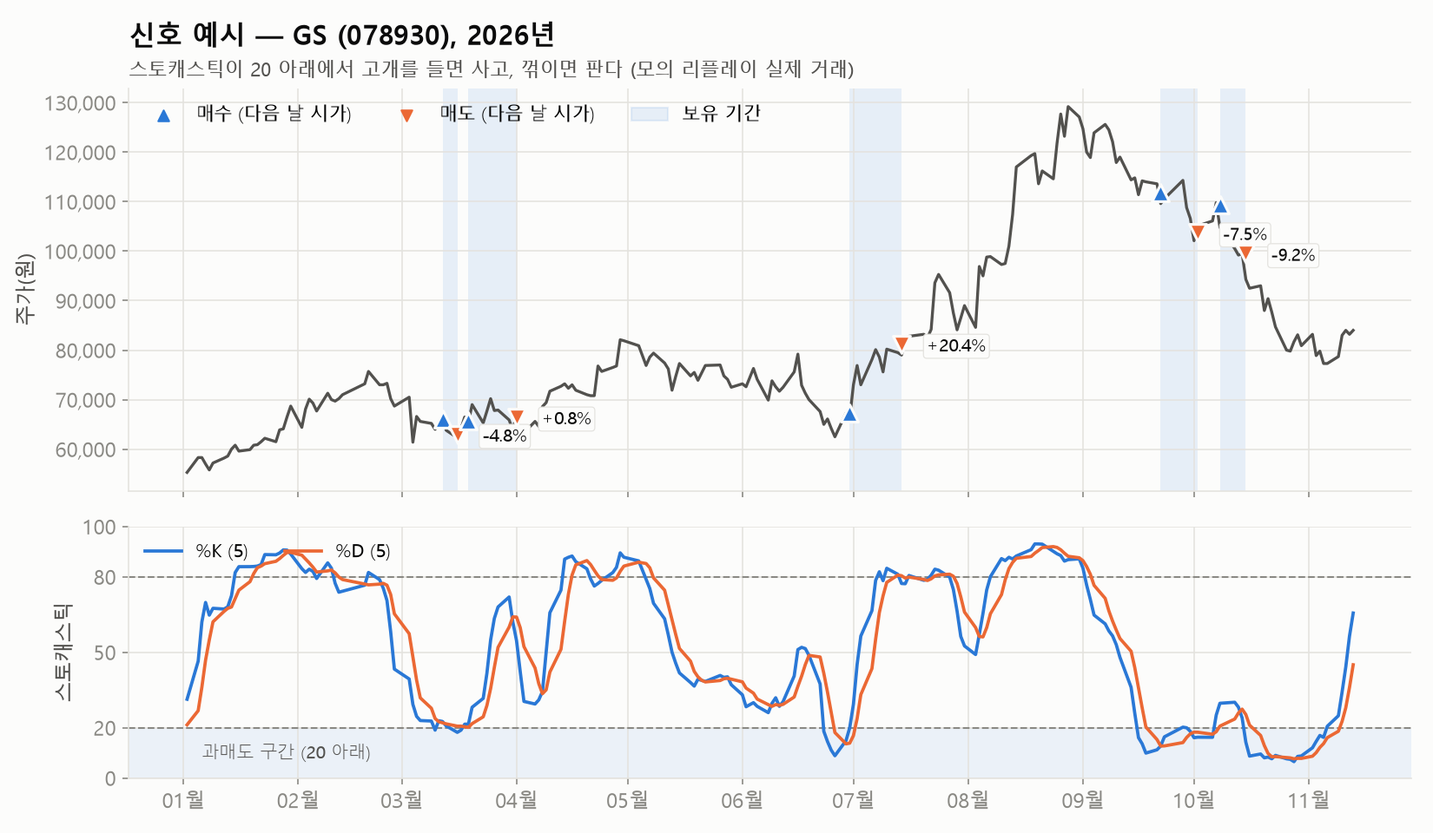
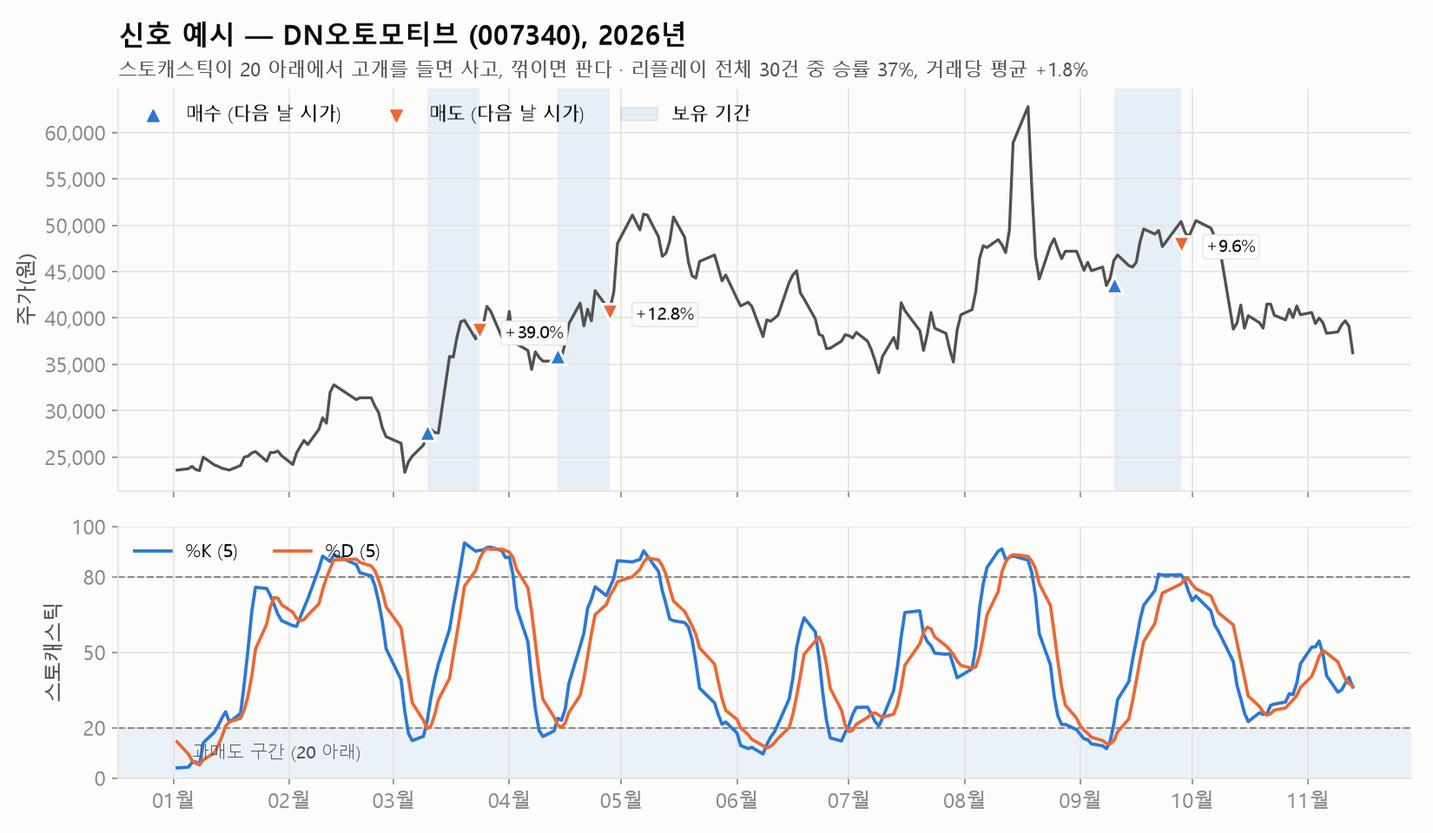
v3: 주봉 스토캐스틱 필터 채택 (PF 1.11→1.23, MDD -2.3→-1.0%), 그림·문서 갱신
- backtest_hyung3.py: 매도 늦추기·주봉 필터·매수 금액 비교
- run_daily.py: 주봉 스토캐스틱 상승 중일 때만 신규 매수
- README·프로젝트_설명·그림·데모 대시보드 갱신 (2026 리플레이 +2.1%)

diff --git a/docs/index.html b/docs/index.html
@@ -21,27 +21,27 @@ th{color:var(--ink2);font-weight:600;font-size:12px}ul.hl{list-style:none;paddin
 #tip{position:fixed;pointer-events:none;background:var(--surface);border:1px solid var(--line);border-radius:6px;padding:6px 8px;font-size:12px;display:none;box-shadow:0 2px 8px #0002}
 </style></head><body><main>
 <h1>주식 자동매매 — 모의 장부 <span style='font-size:13px;font-weight:600;color:#eb6834'>데모 · 2026년 리플레이</span></h1>
-<p class="sub">형님 스토캐스틱 v2 · 일봉 · 기준일 2026-11-13 · 마지막 실행 2026-11-13T15:33:21</p>
+<p class="sub">형님 스토캐스틱 v2 · 일봉 · 기준일 2026-11-13 · 마지막 실행 2026-11-13T16:06:52</p>
 <div class="tiles">
-<div class="tile"><div class="k">평가자산</div><div class="v">9,886,143원</div></div>
-<div class="tile"><div class="k">누적 수익률</div><div class="v">-1.14%</div></div>
-<div class="tile"><div class="k">같은 기간 KODEX 200</div><div class="v">+34.20%</div></div>
+<div class="tile"><div class="k">평가자산</div><div class="v">10,205,045원</div></div>
+<div class="tile"><div class="k">누적 수익률</div><div class="v">+2.05%</div></div>
+<div class="tile"><div class="k">같은 기간 KODEX 200</div><div class="v">+33.83%</div></div>
 <div class="tile"><div class="k">보유 / 최대</div><div class="v">0 / 10</div></div>
 <div class="tile"><div class="k">시장 필터</div><div class="v">OFF · 신규매수 중지</div></div>
 </div>
-<h2>점검</h2><div class="card"><ul class="hl"><li class="st good"><span class="ic" aria-hidden="true">✓</span><b>정상</b> 데이터 최신성 — 기준일 2026-11-13 (영업일 0일 전)</li><li class="st good"><span class="ic" aria-hidden="true">✓</span><b>정상</b> 미체결 대기주문 — 0건</li><li class="st good"><span class="ic" aria-hidden="true">✓</span><b>정상</b> 현금 — 9,886,143원</li><li class="st warning"><span class="ic" aria-hidden="true">!</span><b>주의</b> 종목 데이터 오류 — 1종목</li><li class="st warning"><span class="ic" aria-hidden="true">!</span><b>주의</b> 실전 수익팩터(PF) — 0.83 (백테스트 기대 1.11)</li></ul></div>
+<h2>점검</h2><div class="card"><ul class="hl"><li class="st good"><span class="ic" aria-hidden="true">✓</span><b>정상</b> 데이터 최신성 — 기준일 2026-11-13 (영업일 0일 전)</li><li class="st good"><span class="ic" aria-hidden="true">✓</span><b>정상</b> 미체결 대기주문 — 0건</li><li class="st good"><span class="ic" aria-hidden="true">✓</span><b>정상</b> 현금 — 10,205,045원</li><li class="st warning"><span class="ic" aria-hidden="true">!</span><b>주의</b> 종목 데이터 오류 — 1종목</li><li class="st good"><span class="ic" aria-hidden="true">✓</span><b>정상</b> 실전 수익팩터(PF) — 1.48 (백테스트 기대 1.11)</li></ul></div>
 <h2>계좌 vs KODEX 200 (시작 = 100)</h2>
 <div class="card"><div class="legend"><span><i class="sw" style="background:var(--s1)"></i>모의 계좌</span>
 <span><i class="sw" style="background:var(--s2)"></i>KODEX 200</span></div><div id="chart"></div></div>
 <h2>보유 종목</h2><p class="muted">없음</p>
 <h2>내일 시가 주문(대기)</h2><p class="muted">없음</p>
-<h2>오늘 신호</h2><div class="tw"><table><thead><tr><th>종목</th><th>코드</th><th>종가</th><th>%K</th><th>%D</th><th>신호</th></tr></thead><tbody><tr><td>DB증권</td><td>016610</td><td>8,700</td><td>17.5</td><td>24.8</td><td>매수신호(시장필터 OFF)</td></tr><tr><td>ESR켄달스퀘어리츠</td><td>365550</td><td>2,780</td><td>17.3</td><td>16.5</td><td>매수신호(시장필터 OFF)</td></tr></tbody></table></div>
-<h2>실전 vs 백테스트 기대치</h2><div class="tw"><table><thead><tr><th>지표</th><th>백테스트</th><th>모의 실적</th></tr></thead><tbody><tr><td>승률%</td><td>37.5</td><td>40.2</td></tr><tr><td>거래당 평균%</td><td>0.34</td><td>-0.81</td></tr><tr><td>PF</td><td>1.11</td><td>0.83</td></tr><tr><td>평균 보유일</td><td>8.0</td><td>7.8</td></tr></tbody></table></div>
-<h2>최근 청산 (최대 30건)</h2><div class="tw"><table><thead><tr><th>종목</th><th>코드</th><th>진입</th><th>청산</th><th>매수횟수</th><th>수익률</th></tr></thead><tbody><tr><td>GS</td><td>078930</td><td>2026-10-08</td><td>2026-10-15</td><td>1회</td><td>-9.18%</td></tr><tr><td>DSR제강</td><td>069730</td><td>2026-09-18</td><td>2026-10-06</td><td>1회</td><td>+1.83%</td></tr><tr><td>DI동일</td><td>001530</td><td>2026-10-01</td><td>2026-10-06</td><td>1회</td><td>-1.02%</td></tr><tr><td>GS</td><td>078930</td><td>2026-09-22</td><td>2026-10-02</td><td>1회</td><td>-7.46%</td></tr><tr><td>DN오토모티브</td><td>007340</td><td>2026-09-10</td><td>2026-09-28</td><td>1회</td><td>+9.61%</td></tr><tr><td>GS건설</td><td>006360</td><td>2026-08-05</td><td>2026-08-19</td><td>1회</td><td>+13.31%</td></tr><tr><td>HD현대에너지솔루션</td><td>322000</td><td>2026-08-05</td><td>2026-08-12</td><td>1회</td><td>-8.99%</td></tr><tr><td>HD현대에너지솔루션</td><td>322000</td><td>2026-07-14</td><td>2026-07-30</td><td>1회</td><td>-22.63%</td></tr><tr><td>DB하이텍</td><td>000990</td><td>2026-07-24</td><td>2026-07-30</td><td>1회</td><td>-31.58%</td></tr><tr><td>HD건설기계</td><td>267270</td><td>2026-07-01</td><td>2026-07-21</td><td>1회</td><td>-7.36%</td></tr><tr><td>DL이앤씨</td><td>375500</td><td>2026-07-10</td><td>2026-07-21</td><td>1회</td><td>-7.48%</td></tr><tr><td>DB하이텍</td><td>000990</td><td>2026-07-10</td><td>2026-07-21</td><td>1회</td><td>-15.05%</td></tr><tr><td>GS건설</td><td>006360</td><td>2026-07-01</td><td>2026-07-15</td><td>1회</td><td>+8.04%</td></tr><tr><td>GS</td><td>078930</td><td>2026-06-30</td><td>2026-07-14</td><td>1회</td><td>+20.38%</td></tr><tr><td>GS리테일</td><td>007070</td><td>2026-06-30</td><td>2026-07-10</td><td>1회</td><td>+11.12%</td></tr><tr><td>BNK금융지주</td><td>138930</td><td>2026-07-01</td><td>2026-07-10</td><td>1회</td><td>-0.17%</td></tr><tr><td>DL이앤씨</td><td>375500</td><td>2026-07-01</td><td>2026-07-09</td><td>1회</td><td>-9.38%</td></tr><tr><td>DN오토모티브</td><td>007340</td><td>2026-07-01</td><td>2026-07-08</td><td>1회</td><td>-8.61%</td></tr><tr><td>HD현대에너지솔루션</td><td>322000</td><td>2026-06-30</td><td>2026-07-07</td><td>1회</td><td>-10.97%</td></tr><tr><td>DB하이텍</td><td>000990</td><td>2026-06-23</td><td>2026-06-30</td><td>1회</td><td>-16.53%</td></tr><tr><td>HD현대에너지솔루션</td><td>322000</td><td>2026-05-29</td><td>2026-06-23</td><td>1회</td><td>-26.86%</td></tr><tr><td>GS글로벌</td><td>001250</td><td>2026-06-10</td><td>2026-06-23</td><td>1회</td><td>-8.92%</td></tr><tr><td>DSR</td><td>155660</td><td>2026-06-10</td><td>2026-06-23</td><td>1회</td><td>+0.38%</td></tr><tr><td>DN오토모티브</td><td>007340</td><td>2026-06-10</td><td>2026-06-23</td><td>1회</td><td>+1.04%</td></tr><tr><td>DL이앤씨</td><td>375500</td><td>2026-06-10</td><td>2026-06-23</td><td>1회</td><td>+0.50%</td></tr><tr><td>DL</td><td>000210</td><td>2026-06-10</td><td>2026-06-23</td><td>1회</td><td>+1.07%</td></tr><tr><td>GS리테일</td><td>007070</td><td>2026-06-10</td><td>2026-06-22</td><td>1회</td><td>-0.44%</td></tr><tr><td>DB하이텍</td><td>000990</td><td>2026-06-19</td><td>2026-06-22</td><td>1회</td><td>-2.59%</td></tr><tr><td>DB</td><td>012030</td><td>2026-06-11</td><td>2026-06-22</td><td>1회</td><td>-2.43%</td></tr><tr><td>BGF리테일</td><td>282330</td><td>2026-06-04</td><td>2026-06-18</td><td>1회</td><td>-10.52%</td></tr></tbody></table></div>
+<h2>오늘 신호</h2><div class="tw"><table><thead><tr><th>종목</th><th>코드</th><th>종가</th><th>%K</th><th>%D</th><th>신호</th></tr></thead><tbody><tr><td>DB증권</td><td>016610</td><td>8,750</td><td>18.1</td><td>24.9</td><td>매수신호(시장필터 OFF)</td></tr></tbody></table></div>
+<h2>실전 vs 백테스트 기대치</h2><div class="tw"><table><thead><tr><th>지표</th><th>백테스트</th><th>모의 실적</th></tr></thead><tbody><tr><td>승률%</td><td>37.5</td><td>36.7</td></tr><tr><td>거래당 평균%</td><td>0.34</td><td>1.8</td></tr><tr><td>PF</td><td>1.11</td><td>1.48</td></tr><tr><td>평균 보유일</td><td>8.0</td><td>7.2</td></tr></tbody></table></div>
+<h2>최근 청산 (최대 30건)</h2><div class="tw"><table><thead><tr><th>종목</th><th>코드</th><th>진입</th><th>청산</th><th>매수횟수</th><th>수익률</th></tr></thead><tbody><tr><td>DI동일</td><td>001530</td><td>2026-10-01</td><td>2026-10-06</td><td>1회</td><td>-1.02%</td></tr><tr><td>GS</td><td>078930</td><td>2026-09-22</td><td>2026-10-02</td><td>1회</td><td>-7.46%</td></tr><tr><td>DN오토모티브</td><td>007340</td><td>2026-09-10</td><td>2026-09-28</td><td>1회</td><td>+9.61%</td></tr><tr><td>GS건설</td><td>006360</td><td>2026-08-05</td><td>2026-08-19</td><td>1회</td><td>+13.31%</td></tr><tr><td>BNK금융지주</td><td>138930</td><td>2026-07-01</td><td>2026-07-10</td><td>1회</td><td>-0.17%</td></tr><tr><td>DB</td><td>012030</td><td>2026-06-11</td><td>2026-06-22</td><td>1회</td><td>-2.43%</td></tr><tr><td>DYP</td><td>092780</td><td>2026-06-16</td><td>2026-06-17</td><td>1회</td><td>+4.25%</td></tr><tr><td>HD현대</td><td>267250</td><td>2026-05-26</td><td>2026-06-04</td><td>1회</td><td>-4.39%</td></tr><tr><td>HD현대마린솔루션</td><td>443060</td><td>2026-05-22</td><td>2026-06-02</td><td>1회</td><td>-6.41%</td></tr><tr><td>GS건설</td><td>006360</td><td>2026-05-21</td><td>2026-06-02</td><td>1회</td><td>-8.21%</td></tr><tr><td>DB증권</td><td>016610</td><td>2026-05-26</td><td>2026-06-02</td><td>1회</td><td>-10.81%</td></tr><tr><td>E1</td><td>017940</td><td>2026-05-27</td><td>2026-06-01</td><td>1회</td><td>-5.64%</td></tr><tr><td>DL이앤씨</td><td>375500</td><td>2026-05-22</td><td>2026-06-01</td><td>1회</td><td>-15.07%</td></tr><tr><td>CJ제일제당</td><td>097950</td><td>2026-05-15</td><td>2026-05-22</td><td>1회</td><td>-7.62%</td></tr><tr><td>DN오토모티브</td><td>007340</td><td>2026-04-14</td><td>2026-04-28</td><td>1회</td><td>+12.83%</td></tr><tr><td>BGF리테일</td><td>282330</td><td>2026-03-11</td><td>2026-04-03</td><td>1회</td><td>+11.24%</td></tr><tr><td>HD현대</td><td>267250</td><td>2026-03-26</td><td>2026-04-02</td><td>1회</td><td>-5.85%</td></tr><tr><td>BNK금융지주</td><td>138930</td><td>2026-03-12</td><td>2026-04-01</td><td>1회</td><td>-1.23%</td></tr><tr><td>E1</td><td>017940</td><td>2026-03-12</td><td>2026-03-30</td><td>1회</td><td>+2.00%</td></tr><tr><td>BYC</td><td>001460</td><td>2026-03-20</td><td>2026-03-30</td><td>1회</td><td>+9.99%</td></tr><tr><td>DL</td><td>000210</td><td>2026-03-13</td><td>2026-03-27</td><td>1회</td><td>+33.78%</td></tr><tr><td>GS건설</td><td>006360</td><td>2026-03-12</td><td>2026-03-26</td><td>1회</td><td>+28.14%</td></tr><tr><td>DN오토모티브</td><td>007340</td><td>2026-03-10</td><td>2026-03-24</td><td>1회</td><td>+39.03%</td></tr><tr><td>BYC</td><td>001460</td><td>2026-03-12</td><td>2026-03-19</td><td>1회</td><td>-1.64%</td></tr><tr><td>DYP</td><td>092780</td><td>2026-02-26</td><td>2026-03-03</td><td>1회</td><td>-10.50%</td></tr><tr><td>HJ중공업</td><td>097230</td><td>2026-02-19</td><td>2026-02-27</td><td>1회</td><td>+2.40%</td></tr><tr><td>DYP</td><td>092780</td><td>2026-02-12</td><td>2026-02-23</td><td>1회</td><td>-4.02%</td></tr><tr><td>HD현대마린엔진</td><td>071970</td><td>2026-02-05</td><td>2026-02-06</td><td>1회</td><td>-9.83%</td></tr><tr><td>HD현대에너지솔루션</td><td>322000</td><td>2026-01-15</td><td>2026-01-22</td><td>1회</td><td>-5.21%</td></tr><tr><td>DB</td><td>012030</td><td>2026-01-05</td><td>2026-01-12</td><td>1회</td><td>-5.15%</td></tr></tbody></table></div>
 <p class="muted" style="margin-top:28px">모의 장부(실제 주문 아님). 신호는 종가 판단, 다음 날 시가 체결 가정. 투자 권유 아님.</p>
 </main><div id="tip"></div>
 <script>
-const D=[{"d": "2026-01-02", "a": 100.0, "b": 100.0}, {"d": "2026-01-05", "a": 100.06, "b": 103.8}, {"d": "2026-01-06", "a": 100.2, "b": 105.66}, {"d": "2026-01-07", "a": 100.1, "b": 106.48}, {"d": "2026-01-08", "a": 99.97, "b": 106.32}, {"d": "2026-01-09", "a": 100.0, "b": 107.21}, {"d": "2026-01-12", "a": 100.36, "b": 107.9}, {"d": "2026-01-13", "a": 100.48, "b": 109.27}, {"d": "2026-01-14", "a": 100.63, "b": 109.86}, {"d": "2026-01-15", "a": 100.6, "b": 111.74}, {"d": "2026-01-16", "a": 100.54, "b": 112.92}, {"d": "2026-01-19", "a": 100.4, "b": 114.55}, {"d": "2026-01-20", "a": 100.48, "b": 113.61}, {"d": "2026-01-21", "a": 100.35, "b": 114.51}, {"d": "2026-01-22", "a": 100.43, "b": 115.75}, {"d": "2026-01-23", "a": 100.42, "b": 116.54}, {"d": "2026-01-26", "a": 100.41, "b": 115.39}, {"d": "2026-01-27", "a": 100.41, "b": 119.33}, {"d": "2026-01-28", "a": 100.41, "b": 121.57}, {"d": "2026-01-29", "a": 100.41, "b": 123.07}, {"d": "2026-01-30", "a": 100.41, "b": 123.5}, {"d": "2026-02-02", "a": 100.41, "b": 116.15}, {"d": "2026-02-03", "a": 100.41, "b": 125.08}, {"d": "2026-02-04", "a": 100.41, "b": 126.83}, {"d": "2026-02-05", "a": 100.25, "b": 121.43}, {"d": "2026-02-06", "a": 100.15, "b": 120.13}, {"d": "2026-02-09", "a": 100.15, "b": 125.16}, {"d": "2026-02-10", "a": 100.15, "b": 125.31}, {"d": "2026-02-11", "a": 100.15, "b": 126.39}, {"d": "2026-02-12", "a": 100.25, "b": 130.96}, {"d": "2026-02-13", "a": 99.98, "b": 130.78}, {"d": "2026-02-19", "a": 100.12, "b": 134.82}, {"d": "2026-02-20", "a": 100.3, "b": 137.87}, {"d": "2026-02-23", "a": 100.13, "b": 138.9}, {"d": "2026-02-24", "a": 100.05, "b": 142.32}, {"d": "2026-02-25", "a": 100.16, "b": 145.21}, {"d": "2026-02-26", "a": 99.83, "b": 151.81}, {"d": "2026-02-27", "a": 99.87, "b": 150.37}, {"d": "2026-03-03", "a": 99.66, "b": 138.52}, {"d": "2026-03-04", "a": 99.27, "b": 121.26}, {"d": "2026-03-05", "a": 99.49, "b": 133.51}, {"d": "2026-03-06", "a": 99.49, "b": 133.49}, {"d": "2026-03-09", "a": 99.63, "b": 124.98}, {"d": "2026-03-10", "a": 99.61, "b": 132.44}, {"d": "2026-03-11", "a": 99.69, "b": 133.92}, {"d": "2026-03-12", "a": 99.5, "b": 132.92}, {"d": "2026-03-13", "a": 99.26, "b": 130.27}, {"d": "2026-03-16", "a": 100.22, "b": 132.58}, {"d": "2026-03-17", "a": 100.34, "b": 135.21}, {"d": "2026-03-18", "a": 101.37, "b": 142.78}, {"d": "2026-03-19", "a": 101.44, "b": 138.59}, {"d": "2026-03-20", "a": 103.59, "b": 138.45}, {"d": "2026-03-23", "a": 101.91, "b": 129.44}, {"d": "2026-03-24", "a": 101.8, "b": 133.41}, {"d": "2026-03-25", "a": 102.04, "b": 135.01}, {"d": "2026-03-26", "a": 101.92, "b": 130.36}, {"d": "2026-03-27", "a": 102.28, "b": 129.77}, {"d": "2026-03-30", "a": 102.04, "b": 125.7}, {"d": "2026-03-31", "a": 101.77, "b": 120.51}, {"d": "2026-04-01", "a": 102.08, "b": 131.27}, {"d": "2026-04-02", "a": 102.06, "b": 124.92}, {"d": "2026-04-03", "a": 102.08, "b": 128.73}, {"d": "2026-04-06", "a": 102.07, "b": 130.6}, {"d": "2026-04-07", "a": 101.99, "b": 132.23}, {"d": "2026-04-08", "a": 102.37, "b": 142.19}, {"d": "2026-04-09", "a": 101.95, "b": 139.39}, {"d": "2026-04-10", "a": 102.52, "b": 141.64}, {"d": "2026-04-13", "a": 102.19, "b": 140.4}, {"d": "2026-04-14", "a": 102.82, "b": 144.47}, {"d": "2026-04-15", "a": 102.83, "b": 148.04}, {"d": "2026-04-16", "a": 103.47, "b": 151.31}, {"d": "2026-04-17", "a": 103.79, "b": 150.26}, {"d": "2026-04-20", "a": 104.53, "b": 150.97}, {"d": "2026-04-21", "a": 104.25, "b": 154.84}, {"d": "2026-04-22", "a": 104.08, "b": 155.45}, {"d": "2026-04-23", "a": 104.21, "b": 157.13}, {"d": "2026-04-24", "a": 104.69, "b": 156.57}, {"d": "2026-04-27", "a": 104.56, "b": 160.15}, {"d": "2026-04-28", "a": 104.48, "b": 160.88}, {"d": "2026-04-29", "a": 104.81, "b": 162.15}, {"d": "2026-04-30", "a": 104.9, "b": 160.32}, {"d": "2026-05-04", "a": 104.89, "b": 168.97}, {"d": "2026-05-06", "a": 104.87, "b": 181.77}, {"d": "2026-05-07", "a": 104.87, "b": 185.54}, {"d": "2026-05-08", "a": 104.87, "b": 185.84}, {"d": "2026-05-11", "a": 104.87, "b": 195.46}, {"d": "2026-05-12", "a": 104.87, "b": 191.12}, {"d": "2026-05-13", "a": 104.87, "b": 196.83}, {"d": "2026-05-14", "a": 104.87, "b": 200.36}, {"d": "2026-05-15", "a": 104.69, "b": 188.07}, {"d": "2026-05-18", "a": 104.72, "b": 189.1}, {"d": "2026-05-19", "a": 104.55, "b": 183.44}, {"d": "2026-05-20", "a": 104.1, "b": 181.88}, {"d": "2026-05-21", "a": 104.35, "b": 197.48}, {"d": "2026-05-22", "a": 104.73, "b": 197.94}, {"d": "2026-05-26", "a": 104.24, "b": 203.41}, {"d": "2026-05-27", "a": 103.12, "b": 209.58}, {"d": "2026-05-28", "a": 102.8, "b": 208.6}, {"d": "2026-05-29", "a": 102.64, "b": 216.34}, {"d": "2026-06-01", "a": 102.09, "b": 226.9}, {"d": "2026-06-02", "a": 101.72, "b": 227.19}, {"d": "2026-06-04", "a": 101.77, "b": 222.62}, {"d": "2026-06-05", "a": 101.64, "b": 210.27}, {"d": "2026-06-08", "a": 101.28, "b": 191.86}, {"d": "2026-06-09", "a": 101.35, "b": 208.82}, {"d": "2026-06-10", "a": 101.52, "b": 198.66}, {"d": "2026-06-11", "a": 102.0, "b": 198.74}, {"d": "2026-06-12", "a": 102.78, "b": 207.44}, {"d": "2026-06-15", "a": 103.89, "b": 218.71}, {"d": "2026-06-16", "a": 104.76, "b": 223.94}, {"d": "2026-06-17", "a": 104.04, "b": 227.96}, {"d": "2026-06-18", "a": 102.87, "b": 235.81}, {"d": "2026-06-19", "a": 102.05, "b": 235.75}, {"d": "2026-06-22", "a": 101.57, "b": 238.07}, {"d": "2026-06-23", "a": 100.94, "b": 213.14}, {"d": "2026-06-24", "a": 100.96, "b": 221.68}, {"d": "2026-06-25", "a": 101.01, "b": 234.02}, {"d": "2026-06-26", "a": 101.02, "b": 220.46}, {"d": "2026-06-29", "a": 100.87, "b": 218.91}, {"d": "2026-06-30", "a": 100.99, "b": 222.38}, {"d": "2026-07-01", "a": 101.87, "b": 215.87}, {"d": "2026-07-02", "a": 101.74, "b": 198.23}, {"d": "2026-07-03", "a": 101.41, "b": 210.23}, {"d": "2026-07-06", "a": 101.78, "b": 208.81}, {"d": "2026-07-07", "a": 101.86, "b": 198.52}, {"d": "2026-07-08", "a": 100.98, "b": 187.54}, {"d": "2026-07-09", "a": 100.72, "b": 188.87}, {"d": "2026-07-10", "a": 101.68, "b": 193.54}, {"d": "2026-07-13", "a": 100.92, "b": 174.62}, {"d": "2026-07-14", "a": 100.48, "b": 176.07}, {"d": "2026-07-15", "a": 101.21, "b": 187.33}, {"d": "2026-07-16", "a": 100.68, "b": 174.91}, {"d": "2026-07-20", "a": 100.38, "b": 167.04}, {"d": "2026-07-21", "a": 100.53, "b": 173.53}, {"d": "2026-07-22", "a": 100.58, "b": 173.81}, {"d": "2026-07-23", "a": 101.36, "b": 181.7}, {"d": "2026-07-24", "a": 101.01, "b": 170.69}, {"d": "2026-07-27", "a": 100.39, "b": 172.88}, {"d": "2026-07-28", "a": 99.51, "b": 153.53}, {"d": "2026-07-29", "a": 98.97, "b": 143.79}, {"d": "2026-07-30", "a": 98.82, "b": 140.91}, {"d": "2026-07-31", "a": 98.82, "b": 174.98}, {"d": "2026-08-03", "a": 98.82, "b": 159.36}, {"d": "2026-08-04", "a": 98.82, "b": 161.33}, {"d": "2026-08-05", "a": 99.14, "b": 167.71}, {"d": "2026-08-06", "a": 99.26, "b": 159.03}, {"d": "2026-08-07", "a": 99.03, "b": 157.72}, {"d": "2026-08-10", "a": 99.24, "b": 158.01}, {"d": "2026-08-11", "a": 99.19, "b": 159.61}, {"d": "2026-08-12", "a": 99.25, "b": 166.02}, {"d": "2026-08-13", "a": 99.31, "b": 172.48}, {"d": "2026-08-14", "a": 99.27, "b": 176.97}, {"d": "2026-08-18", "a": 99.14, "b": 174.54}, {"d": "2026-08-19", "a": 99.01, "b": 163.62}, {"d": "2026-08-20", "a": 99.01, "b": 173.96}, {"d": "2026-08-21", "a": 99.01, "b": 176.84}, {"d": "2026-08-24", "a": 99.01, "b": 170.43}, {"d": "2026-08-25", "a": 99.01, "b": 171.72}, {"d": "2026-08-26", "a": 99.01, "b": 173.19}, {"d": "2026-08-27", "a": 99.01, "b": 175.48}, {"d": "2026-08-28", "a": 99.01, "b": 172.34}, {"d": "2026-08-31", "a": 99.01, "b": 173.04}, {"d": "2026-09-01", "a": 99.01, "b": 173.47}, {"d": "2026-09-02", "a": 99.01, "b": 166.42}, {"d": "2026-09-03", "a": 99.01, "b": 166.6}, {"d": "2026-09-04", "a": 99.01, "b": 169.99}, {"d": "2026-09-07", "a": 99.01, "b": 178.19}, {"d": "2026-09-08", "a": 99.01, "b": 177.41}, {"d": "2026-09-09", "a": 99.01, "b": 180.25}, {"d": "2026-09-10", "a": 99.19, "b": 179.87}, {"d": "2026-09-11", "a": 99.23, "b": 176.07}, {"d": "2026-09-14", "a": 99.15, "b": 169.49}, {"d": "2026-09-15", "a": 99.14, "b": 167.67}, {"d": "2026-09-16", "a": 99.18, "b": 171.03}, {"d": "2026-09-17", "a": 99.33, "b": 170.89}, {"d": "2026-09-18", "a": 99.45, "b": 175.72}, {"d": "2026-09-21", "a": 99.43, "b": 179.61}, {"d": "2026-09-22", "a": 99.41, "b": 179.9}, {"d": "2026-09-23", "a": 99.31, "b": 181.93}, {"d": "2026-09-28", "a": 99.48, "b": 176.07}, {"d": "2026-09-29", "a": 99.31, "b": 176.86}, {"d": "2026-09-30", "a": 99.27, "b": 176.14}, {"d": "2026-10-01", "a": 99.3, "b": 179.32}, {"d": "2026-10-02", "a": 99.2, "b": 180.18}, {"d": "2026-10-06", "a": 99.16, "b": 178.07}, {"d": "2026-10-07", "a": 99.16, "b": 174.54}, {"d": "2026-10-08", "a": 99.03, "b": 169.88}, {"d": "2026-10-12", "a": 98.9, "b": 163.37}, {"d": "2026-10-13", "a": 98.86, "b": 153.16}, {"d": "2026-10-14", "a": 98.87, "b": 152.44}, {"d": "2026-10-15", "a": 98.86, "b": 139.93}, {"d": "2026-10-16", "a": 98.86, "b": 142.7}, {"d": "2026-10-19", "a": 98.86, "b": 144.6}, {"d": "2026-10-20", "a": 98.86, "b": 139.5}, {"d": "2026-10-21", "a": 98.86, "b": 144.27}, {"d": "2026-10-22", "a": 98.86, "b": 139.13}, {"d": "2026-10-23", "a": 98.86, "b": 140.01}, {"d": "2026-10-26", "a": 98.86, "b": 138.27}, {"d": "2026-10-27", "a": 98.86, "b": 142.95}, {"d": "2026-10-28", "a": 98.86, "b": 153.8}, {"d": "2026-10-29", "a": 98.86, "b": 152.11}, {"d": "2026-10-30", "a": 98.86, "b": 146.21}, {"d": "2026-11-02", "a": 98.86, "b": 149.66}, {"d": "2026-11-03", "a": 98.86, "b": 143.83}, {"d": "2026-11-04", "a": 98.86, "b": 144.46}, {"d": "2026-11-05", "a": 98.86, "b": 136.24}, {"d": "2026-11-06", "a": 98.86, "b": 127.22}, {"d": "2026-11-09", "a": 98.86, "b": 126.39}, {"d": "2026-11-10", "a": 98.86, "b": 132.04}, {"d": "2026-11-11", "a": 98.86, "b": 136.13}, {"d": "2026-11-12", "a": 98.86, "b": 135.65}, {"d": "2026-11-13", "a": 98.86, "b": 134.2}];
+const D=[{"d": "2026-01-02", "a": 100.0, "b": 100.0}, {"d": "2026-01-05", "a": 100.06, "b": 103.8}, {"d": "2026-01-06", "a": 100.13, "b": 105.66}, {"d": "2026-01-07", "a": 100.0, "b": 106.48}, {"d": "2026-01-08", "a": 99.85, "b": 106.32}, {"d": "2026-01-09", "a": 99.84, "b": 107.21}, {"d": "2026-01-12", "a": 99.83, "b": 107.9}, {"d": "2026-01-13", "a": 99.83, "b": 109.27}, {"d": "2026-01-14", "a": 99.83, "b": 109.86}, {"d": "2026-01-15", "a": 99.82, "b": 111.74}, {"d": "2026-01-16", "a": 99.77, "b": 112.92}, {"d": "2026-01-19", "a": 99.71, "b": 114.55}, {"d": "2026-01-20", "a": 99.73, "b": 113.61}, {"d": "2026-01-21", "a": 99.63, "b": 114.51}, {"d": "2026-01-22", "a": 99.68, "b": 115.75}, {"d": "2026-01-23", "a": 99.68, "b": 116.54}, {"d": "2026-01-26", "a": 99.68, "b": 115.39}, {"d": "2026-01-27", "a": 99.68, "b": 119.33}, {"d": "2026-01-28", "a": 99.68, "b": 121.57}, {"d": "2026-01-29", "a": 99.68, "b": 123.07}, {"d": "2026-01-30", "a": 99.68, "b": 123.5}, {"d": "2026-02-02", "a": 99.68, "b": 116.15}, {"d": "2026-02-03", "a": 99.68, "b": 125.08}, {"d": "2026-02-04", "a": 99.68, "b": 126.83}, {"d": "2026-02-05", "a": 99.51, "b": 121.43}, {"d": "2026-02-06", "a": 99.42, "b": 120.13}, {"d": "2026-02-09", "a": 99.42, "b": 125.16}, {"d": "2026-02-10", "a": 99.42, "b": 125.31}, {"d": "2026-02-11", "a": 99.42, "b": 126.39}, {"d": "2026-02-12", "a": 99.52, "b": 130.96}, {"d": "2026-02-13", "a": 99.25, "b": 130.78}, {"d": "2026-02-19", "a": 99.39, "b": 134.82}, {"d": "2026-02-20", "a": 99.56, "b": 137.87}, {"d": "2026-02-23", "a": 99.4, "b": 138.9}, {"d": "2026-02-24", "a": 99.32, "b": 142.32}, {"d": "2026-02-25", "a": 99.43, "b": 145.21}, {"d": "2026-02-26", "a": 99.1, "b": 151.81}, {"d": "2026-02-27", "a": 99.06, "b": 150.37}, {"d": "2026-03-03", "a": 99.01, "b": 138.52}, {"d": "2026-03-04", "a": 99.01, "b": 121.26}, {"d": "2026-03-05", "a": 99.01, "b": 133.51}, {"d": "2026-03-06", "a": 99.01, "b": 133.49}, {"d": "2026-03-09", "a": 99.01, "b": 124.98}, {"d": "2026-03-10", "a": 99.02, "b": 132.44}, {"d": "2026-03-11", "a": 99.0, "b": 133.92}, {"d": "2026-03-12", "a": 98.95, "b": 132.92}, {"d": "2026-03-13", "a": 99.04, "b": 130.27}, {"d": "2026-03-16", "a": 99.99, "b": 132.58}, {"d": "2026-03-17", "a": 100.03, "b": 135.21}, {"d": "2026-03-18", "a": 101.19, "b": 142.78}, {"d": "2026-03-19", "a": 101.57, "b": 138.59}, {"d": "2026-03-20", "a": 104.4, "b": 138.45}, {"d": "2026-03-23", "a": 103.15, "b": 129.44}, {"d": "2026-03-24", "a": 102.22, "b": 133.41}, {"d": "2026-03-25", "a": 102.29, "b": 135.01}, {"d": "2026-03-26", "a": 102.4, "b": 130.36}, {"d": "2026-03-27", "a": 102.71, "b": 129.77}, {"d": "2026-03-30", "a": 102.62, "b": 125.7}, {"d": "2026-03-31", "a": 102.5, "b": 120.51}, {"d": "2026-04-01", "a": 102.68, "b": 131.27}, {"d": "2026-04-02", "a": 102.66, "b": 124.92}, {"d": "2026-04-03", "a": 102.65, "b": 128.73}, {"d": "2026-04-06", "a": 102.65, "b": 130.6}, {"d": "2026-04-07", "a": 102.65, "b": 132.23}, {"d": "2026-04-08", "a": 102.65, "b": 142.19}, {"d": "2026-04-09", "a": 102.65, "b": 139.39}, {"d": "2026-04-10", "a": 102.65, "b": 141.64}, {"d": "2026-04-13", "a": 102.65, "b": 140.4}, {"d": "2026-04-14", "a": 102.68, "b": 144.47}, {"d": "2026-04-15", "a": 102.64, "b": 148.04}, {"d": "2026-04-16", "a": 102.78, "b": 151.31}, {"d": "2026-04-17", "a": 102.97, "b": 150.26}, {"d": "2026-04-20", "a": 103.17, "b": 150.97}, {"d": "2026-04-21", "a": 102.95, "b": 154.84}, {"d": "2026-04-22", "a": 103.11, "b": 155.45}, {"d": "2026-04-23", "a": 103.0, "b": 157.13}, {"d": "2026-04-24", "a": 103.29, "b": 156.57}, {"d": "2026-04-27", "a": 103.14, "b": 160.15}, {"d": "2026-04-28", "a": 103.07, "b": 160.88}, {"d": "2026-04-29", "a": 103.07, "b": 162.15}, {"d": "2026-04-30", "a": 103.07, "b": 160.32}, {"d": "2026-05-04", "a": 103.07, "b": 168.97}, {"d": "2026-05-06", "a": 103.07, "b": 181.77}, {"d": "2026-05-07", "a": 103.07, "b": 185.54}, {"d": "2026-05-08", "a": 103.07, "b": 185.84}, {"d": "2026-05-11", "a": 103.07, "b": 195.46}, {"d": "2026-05-12", "a": 103.07, "b": 191.12}, {"d": "2026-05-13", "a": 103.07, "b": 196.83}, {"d": "2026-05-14", "a": 103.07, "b": 200.36}, {"d": "2026-05-15", "a": 103.06, "b": 188.07}, {"d": "2026-05-18", "a": 102.99, "b": 189.1}, {"d": "2026-05-19", "a": 102.93, "b": 183.44}, {"d": "2026-05-20", "a": 102.91, "b": 181.88}, {"d": "2026-05-21", "a": 102.93, "b": 197.48}, {"d": "2026-05-22", "a": 103.0, "b": 197.94}, {"d": "2026-05-26", "a": 102.98, "b": 203.41}, {"d": "2026-05-27", "a": 102.23, "b": 209.58}, {"d": "2026-05-28", "a": 101.76, "b": 208.6}, {"d": "2026-05-29", "a": 101.86, "b": 216.34}, {"d": "2026-06-01", "a": 101.69, "b": 226.9}, {"d": "2026-06-02", "a": 101.49, "b": 227.19}, {"d": "2026-06-04", "a": 101.48, "b": 222.62}, {"d": "2026-06-05", "a": 101.48, "b": 210.27}, {"d": "2026-06-08", "a": 101.48, "b": 191.86}, {"d": "2026-06-09", "a": 101.48, "b": 208.82}, {"d": "2026-06-10", "a": 101.48, "b": 198.66}, {"d": "2026-06-11", "a": 101.66, "b": 198.74}, {"d": "2026-06-12", "a": 101.77, "b": 207.44}, {"d": "2026-06-15", "a": 101.76, "b": 218.71}, {"d": "2026-06-16", "a": 101.75, "b": 223.94}, {"d": "2026-06-17", "a": 101.79, "b": 227.96}, {"d": "2026-06-18", "a": 101.76, "b": 235.81}, {"d": "2026-06-19", "a": 101.67, "b": 235.75}, {"d": "2026-06-22", "a": 101.54, "b": 238.07}, {"d": "2026-06-23", "a": 101.54, "b": 213.14}, {"d": "2026-06-24", "a": 101.54, "b": 221.68}, {"d": "2026-06-25", "a": 101.54, "b": 234.02}, {"d": "2026-06-26", "a": 101.54, "b": 220.46}, {"d": "2026-06-29", "a": 101.54, "b": 218.91}, {"d": "2026-06-30", "a": 101.54, "b": 222.38}, {"d": "2026-07-01", "a": 101.5, "b": 215.87}, {"d": "2026-07-02", "a": 101.66, "b": 198.23}, {"d": "2026-07-03", "a": 101.78, "b": 210.23}, {"d": "2026-07-06", "a": 101.75, "b": 208.81}, {"d": "2026-07-07", "a": 101.72, "b": 198.52}, {"d": "2026-07-08", "a": 101.62, "b": 187.54}, {"d": "2026-07-09", "a": 101.49, "b": 188.87}, {"d": "2026-07-10", "a": 101.53, "b": 193.54}, {"d": "2026-07-13", "a": 101.53, "b": 174.62}, {"d": "2026-07-14", "a": 101.53, "b": 176.07}, {"d": "2026-07-15", "a": 101.53, "b": 187.33}, {"d": "2026-07-16", "a": 101.53, "b": 174.91}, {"d": "2026-07-20", "a": 101.53, "b": 167.04}, {"d": "2026-07-21", "a": 101.53, "b": 173.53}, {"d": "2026-07-22", "a": 101.53, "b": 173.81}, {"d": "2026-07-23", "a": 101.53, "b": 181.7}, {"d": "2026-07-24", "a": 101.53, "b": 170.69}, {"d": "2026-07-27", "a": 101.53, "b": 172.88}, {"d": "2026-07-28", "a": 101.53, "b": 153.53}, {"d": "2026-07-29", "a": 101.53, "b": 143.79}, {"d": "2026-07-30", "a": 101.53, "b": 140.91}, {"d": "2026-07-31", "a": 101.53, "b": 174.98}, {"d": "2026-08-03", "a": 101.53, "b": 159.36}, {"d": "2026-08-04", "a": 101.53, "b": 161.33}, {"d": "2026-08-05", "a": 101.76, "b": 167.71}, {"d": "2026-08-06", "a": 101.92, "b": 159.03}, {"d": "2026-08-07", "a": 101.81, "b": 157.72}, {"d": "2026-08-10", "a": 102.17, "b": 158.01}, {"d": "2026-08-11", "a": 102.15, "b": 159.61}, {"d": "2026-08-12", "a": 102.2, "b": 166.02}, {"d": "2026-08-13", "a": 102.26, "b": 172.48}, {"d": "2026-08-14", "a": 102.22, "b": 176.97}, {"d": "2026-08-18", "a": 102.09, "b": 174.54}, {"d": "2026-08-19", "a": 101.96, "b": 163.62}, {"d": "2026-08-20", "a": 101.96, "b": 173.96}, {"d": "2026-08-21", "a": 101.96, "b": 176.84}, {"d": "2026-08-24", "a": 101.96, "b": 170.43}, {"d": "2026-08-25", "a": 101.96, "b": 171.72}, {"d": "2026-08-26", "a": 101.96, "b": 173.19}, {"d": "2026-08-27", "a": 101.96, "b": 175.48}, {"d": "2026-08-28", "a": 101.96, "b": 172.34}, {"d": "2026-08-31", "a": 101.96, "b": 173.04}, {"d": "2026-09-01", "a": 101.96, "b": 173.47}, {"d": "2026-09-02", "a": 101.96, "b": 166.42}, {"d": "2026-09-03", "a": 101.96, "b": 166.6}, {"d": "2026-09-04", "a": 101.96, "b": 169.99}, {"d": "2026-09-07", "a": 101.96, "b": 178.19}, {"d": "2026-09-08", "a": 101.96, "b": 177.41}, {"d": "2026-09-09", "a": 101.96, "b": 180.25}, {"d": "2026-09-10", "a": 102.14, "b": 179.87}, {"d": "2026-09-11", "a": 102.18, "b": 176.07}, {"d": "2026-09-14", "a": 102.1, "b": 169.49}, {"d": "2026-09-15", "a": 102.09, "b": 167.67}, {"d": "2026-09-16", "a": 102.12, "b": 171.03}, {"d": "2026-09-17", "a": 102.28, "b": 170.89}, {"d": "2026-09-18", "a": 102.38, "b": 175.72}, {"d": "2026-09-21", "a": 102.34, "b": 179.61}, {"d": "2026-09-22", "a": 102.32, "b": 179.9}, {"d": "2026-09-23", "a": 102.22, "b": 181.93}, {"d": "2026-09-28", "a": 102.3, "b": 176.07}, {"d": "2026-09-29", "a": 102.19, "b": 176.86}, {"d": "2026-09-30", "a": 102.15, "b": 176.14}, {"d": "2026-10-01", "a": 102.12, "b": 179.32}, {"d": "2026-10-02", "a": 102.05, "b": 180.18}, {"d": "2026-10-06", "a": 102.05, "b": 178.07}, {"d": "2026-10-07", "a": 102.05, "b": 174.54}, {"d": "2026-10-08", "a": 102.05, "b": 169.88}, {"d": "2026-10-12", "a": 102.05, "b": 163.37}, {"d": "2026-10-13", "a": 102.05, "b": 153.16}, {"d": "2026-10-14", "a": 102.05, "b": 152.44}, {"d": "2026-10-15", "a": 102.05, "b": 139.93}, {"d": "2026-10-16", "a": 102.05, "b": 142.7}, {"d": "2026-10-19", "a": 102.05, "b": 144.6}, {"d": "2026-10-20", "a": 102.05, "b": 139.5}, {"d": "2026-10-21", "a": 102.05, "b": 144.27}, {"d": "2026-10-22", "a": 102.05, "b": 139.13}, {"d": "2026-10-23", "a": 102.05, "b": 140.01}, {"d": "2026-10-26", "a": 102.05, "b": 138.27}, {"d": "2026-10-27", "a": 102.05, "b": 142.95}, {"d": "2026-10-28", "a": 102.05, "b": 153.8}, {"d": "2026-10-29", "a": 102.05, "b": 152.11}, {"d": "2026-10-30", "a": 102.05, "b": 146.21}, {"d": "2026-11-02", "a": 102.05, "b": 149.66}, {"d": "2026-11-03", "a": 102.05, "b": 143.83}, {"d": "2026-11-04", "a": 102.05, "b": 144.46}, {"d": "2026-11-05", "a": 102.05, "b": 136.24}, {"d": "2026-11-06", "a": 102.05, "b": 127.22}, {"d": "2026-11-09", "a": 102.05, "b": 126.39}, {"d": "2026-11-10", "a": 102.05, "b": 132.04}, {"d": "2026-11-11", "a": 102.05, "b": 136.13}, {"d": "2026-11-12", "a": 102.05, "b": 135.65}, {"d": "2026-11-13", "a": 102.05, "b": 133.83}];
 (function(){const el=document.getElementById('chart');if(D.length<2){el.innerHTML='<p class="muted">2일 이상 쌓이면 그려집니다.</p>';return;}
 const W=el.clientWidth||900,H=280,L=44,R=12,T=10,B=26;const v=D.flatMap(p=>[p.a,p.b]);let lo=Math.min(...v),hi=Math.max(...v);const pad=(hi-lo)*.08||1;lo-=pad;hi+=pad;
 const x=i=>L+(W-L-R)*i/(D.length-1),y=t=>T+(H-T-B)*(1-(t-lo)/(hi-lo));const path=k=>D.map((p,i)=>(i?'L':'M')+x(i).toFixed(1)+' '+y(p[k]).toFixed(1)).join('');

diff --git a/backtest_hyung3.py b/backtest_hyung3.py
@@ -1,0 +1,101 @@
+r"""형님 기법 v3 후보 — 스토캐스틱만으로 개선 (v2 + 시장·종목 필터 기준)
+
+L 매도 늦추기 : 평가이익 중이면 %K >= 50 에서 나온 매도 신호만 따름 (낮은 구간 데드크로스는 버팀).
+               평가손실이면 기존대로 바로 매도(원금 보호).
+W 주봉 필터   : 직전 완성 주봉의 스토캐스틱(14,5,5) %K > %D (주봉 상승 흐름) 일 때만 신규 매수
+S 매수 금액   : 1회 매수 = 배정금의 1/3(기존) / 1/2 / 전액
+실행: python backtest_hyung3.py
+"""
+from pathlib import Path
+import numpy as np
+import pandas as pd
+import backtest as bt
+from backtest_hyung import stoch
+from backtest_hyung2 import prep
+
+HERE = Path(__file__).parent
+
+
+def weekly_ok(df):
+    w = df.resample("W-FRI").agg({"Open": "first", "High": "max", "Low": "min", "Close": "last", "Volume": "sum"}).dropna()
+    w = stoch(w)
+    ok = (w["K"] > w["D"]).shift(1)          # 직전 완성 주봉 기준 (미래 데이터 차단)
+    return ok.reindex(df.index, method="ffill").fillna(False).astype(bool)
+
+
+def sim(df, mkt_ok, units, late_sell, use_weekly):
+    o, c, K = df["Open"].values, df["Close"].values, df["K"].values
+    buy = df["BUY"].values & mkt_ok.reindex(df.index).fillna(False).values & df["TREND"].values
+    if use_weekly:
+        buy &= df["WOK"].values
+    add, sell = df["ADD"].values, df["SELL"].values
+    n = len(df)
+    cash, sh, u, last_buy, unit_amt, basis, t0 = 1.0, 0.0, 0, -99, 0.0, 0.0, 0
+    eq, trades = np.ones(n), []
+    for i in range(1, n):
+        if u:
+            s = sell[i - 1]
+            if s and late_sell and sh * c[i - 1] > basis and K[i - 1] < 50:
+                s = False                       # 이익 중 + 낮은 구간 데드크로스 -> 버팀
+            if s:
+                pr = sh * o[i] * (1 - bt.SELL_COST)
+                trades.append((pr / basis - 1, i - t0, u))
+                cash += pr
+                sh, u = 0.0, 0
+            elif u < units and add[i - 1] and i - last_buy >= 5:
+                amt = min(unit_amt, cash)
+                sh += amt / (o[i] * (1 + bt.BUY_COST))
+                cash -= amt
+                u, last_buy, basis = u + 1, i, basis + amt
+        elif buy[i - 1]:
+            unit_amt = cash / units
+            sh = unit_amt / (o[i] * (1 + bt.BUY_COST))
+            cash -= unit_amt
+            u, last_buy, basis, t0 = 1, i, unit_amt, i
+        eq[i] = cash + sh * c[i]
+    if u:
+        trades.append((sh * c[-1] * (1 - bt.SELL_COST) / basis - 1, n - 1 - t0, u))
+    return trades, pd.Series(eq, index=df.index)
+
+
+def main():
+    u = bt.universe()
+    k = pd.read_csv(bt.DATA / "069500.csv", index_col=0, parse_dates=True)["Close"]
+    mkt_ok = k > k.rolling(200).mean()
+    frames = {}
+    for c in u["Code"]:
+        df = prep(bt.prices(c))
+        df["WOK"] = weekly_ok(df)
+        frames[c] = df
+    idx = pd.DatetimeIndex(sorted(set().union(*[d.index for d in frames.values()])))
+    yrs = (idx[-1] - idx[0]).days / 365.25
+    cases = [("v2 기준 (1/3씩)", 3, False, False),
+             ("S 1/2씩", 2, False, False), ("S 전액", 1, False, False),
+             ("L 매도 늦추기", 3, True, False), ("W 주봉 필터", 3, False, True),
+             ("L+W", 3, True, True), ("L+W+S 1/2", 2, True, True), ("L+W+S 전액", 1, True, True)]
+    rows = []
+    for name, units, ls, wk in cases:
+        tr, eqs = [], []
+        for df in frames.values():
+            t, e = sim(df, mkt_ok, units, ls, wk)
+            tr += t
+            eqs.append(e.reindex(idx).ffill().fillna(1.0))
+        port = pd.concat(eqs, axis=1).mean(axis=1)
+        r = np.array([x[0] for x in tr])
+        rows.append({"구분": name, "CAGR%": round(100 * (port.iloc[-1] ** (1 / yrs) - 1), 2),
+                     "MDD%": round(100 * (port / port.cummax() - 1).min(), 1), "거래수": len(r),
+                     "승률%": round(100 * (r > 0).mean(), 1), "평균%": round(100 * r.mean(), 2),
+                     "PF": round(r[r > 0].sum() / -r[r < 0].sum(), 2),
+                     "평균보유일": round(np.mean([x[1] for x in tr]), 1),
+                     "물타기%": round(100 * np.mean([x[2] > 1 for x in tr]), 1)})
+    bh = pd.concat([d["Close"].reindex(idx).ffill().bfill() / d["Close"].iloc[0] for d in frames.values()], axis=1).mean(axis=1)
+    rows.append({"구분": "그냥 보유(기준)", "CAGR%": round(100 * (bh.iloc[-1] ** (1 / yrs) - 1), 2),
+                 "MDD%": round(100 * (bh / bh.cummax() - 1).min(), 1)})
+    res = pd.DataFrame(rows)
+    res.to_csv(HERE / "results" / "summary_hyung3.csv", index=False, encoding="utf-8-sig")
+    with pd.option_context("display.width", 250, "display.max_columns", 20):
+        print(res.to_string(index=False))
+
+
+if __name__ == "__main__":
+    main()

diff --git a/make_figures.py b/make_figures.py
@@ -44,17 +44,19 @@ def fig_strategies():
     s5 = pd.read_csv(RES / "summary_5m.csv")
     h1 = pd.read_csv(RES / "summary_hyung.csv").set_index("구분")
     h2 = pd.read_csv(RES / "summary_hyung2.csv").set_index("구분")
+    h3 = pd.read_csv(RES / "summary_hyung3.csv").set_index("구분")
     mdd1 = lambda st: float(s1[(s1["전략"] == st) & (s1["손절"] == "없음")]["MDD%"].iloc[0])
     rows = [("\"승률 99%\" RSI+MACD+스토캐스틱 (5분봉)", float(s5.loc[s5["설정"].str.contains("10봉"), "PF(비용후)"].iloc[0]), None),
             ("RSI + MACD + 스토캐스틱", pf_from_trades("D_스토+RSI+MACD"), mdd1("D_스토+RSI+MACD")),
             ("스토캐스틱 20 매수 / 80 매도", pf_from_trades("A0_스토캐스틱_단순"), mdd1("A0_스토캐스틱_단순")),
             ("형님 기법 v1 (교차 기준)", float(h1.loc["일봉·주식50 (2016~) / 완화형", "PF"]), float(h1.loc["일봉·주식50 (2016~) / 완화형", "MDD%"])),
             ("형님 기법 v2 (필터 없음)", float(h2.loc["필터 없음", "PF"]), float(h2.loc["필터 없음", "MDD%"])),
-            ("형님 기법 v2 + 시장·종목 필터 (채택)", float(h2.loc["시장+종목 필터", "PF"]), float(h2.loc["시장+종목 필터", "MDD%"]))]
+            ("형님 기법 v2 + 시장·종목 필터", float(h2.loc["시장+종목 필터", "PF"]), float(h2.loc["시장+종목 필터", "MDD%"])),
+            ("형님 기법 v3 + 주봉 스토캐스틱 (채택)", float(h3.loc["W 주봉 필터", "PF"]), float(h3.loc["W 주봉 필터", "MDD%"]))]
     names = [r[0] for r in rows]
     y = np.arange(len(rows))
     col = [BLUE if "채택" in n else "#c9c8c2" for n in names]
-    fig, (a1, a2) = plt.subplots(1, 2, figsize=(12, 4.8), sharey=True, gridspec_kw={"width_ratios": [1, 1]})
+    fig, (a1, a2) = plt.subplots(1, 2, figsize=(12, 5.3), sharey=True, gridspec_kw={"width_ratios": [1, 1]})
     a1.barh(y, [r[1] for r in rows], color=col, height=0.6, zorder=3)
     a1.axvline(1.0, color=INK, lw=1.2, zorder=4)
     for yi, r in zip(y, rows):
@@ -105,10 +107,10 @@ def fig_risk():
 # 3) 실제 종목에서 신호가 어떻게 나오나
 def fig_example(state):
     h = pd.DataFrame(state["history"])
-    # 대표 종목: 거래 4건 이상 중 평균 수익률이 전체 평균에 가장 가까운 종목 (골라 보여주기 방지)
-    g = h.groupby("code")["ret"].agg(["count", "mean"])
-    g = g[g["count"] >= 4]
-    code = (g["mean"] - h["ret"].mean()).abs().idxmin()
+    # 예시 종목: 거래가 가장 많고, 같으면 보유 기간이 긴 종목 (신호 흐름이 잘 보이도록, 수익률로 고르지 않음)
+    h["days"] = (pd.to_datetime(h["closed"]) - pd.to_datetime(h["opened"])).dt.days
+    g = h.groupby("code").agg(n=("ret", "size"), d=("days", "sum")).sort_values(["n", "d"], ascending=False)
+    code = g.index[0]
     name = h.loc[h["code"] == code, "name"].iloc[0]
     tr = h[h["code"] == code]
     df = stoch(fdr.DataReader(code, "2025-03-01")[["Open", "High", "Low", "Close", "Volume"]])
@@ -129,7 +131,7 @@ def fig_example(state):
     a1.legend(loc="upper left", frameon=False, ncol=3, fontsize=10)
     a1.set_ylabel("주가(원)")
     a1.yaxis.set_major_formatter(matplotlib.ticker.FuncFormatter(lambda v, _: f"{v:,.0f}"))
-    title(a1, f"신호 예시 — {name} ({code}), 2026년", "스토캐스틱이 20 아래에서 고개를 들면 사고, 꺾이면 판다 (모의 리플레이 실제 거래)")
+    title(a1, f"신호 예시 — {name} ({code}), 2026년", f"스토캐스틱이 20 아래에서 고개를 들면 사고, 꺾이면 판다 · 리플레이 전체 {len(h)}건 중 승률 {100*(h['ret']>0).mean():.0f}%, 거래당 평균 {100*h['ret'].mean():+.1f}%")
     a2.axhspan(0, 20, color=BLUE, alpha=0.08, lw=0)
     a2.axhline(20, color=MUTED, lw=1, ls="--")
     a2.axhline(80, color=MUTED, lw=1, ls="--")

diff --git a/run_daily.py b/run_daily.py
@@ -4,6 +4,7 @@ r"""매일 장 마감 후 실행: 형님 스토캐스틱 v2 신호 -> 모의 장
  1) 지난 실행에서 만든 '대기 주문'을 오늘 시가로 체결 처리 (모의 장부)
  2) 관심종목 + 보유종목의 일봉으로 신호 계산 (backtest_hyung2.prep 그대로 사용 = 백테스트와 같은 규칙)
     - 신규 매수: BUY 신호 + 시장 필터(KODEX200 > 200일선) + 종목 필터(200일선 위, 120일 수익률 > 0)
+                 + 주봉 필터(직전 주봉 스토캐스틱 %K > %D) — v3, backtest_hyung3.py 근거
     - 추가 매수: ADD 신호, 최대 3회, 직전 매수 후 5거래일 경과
     - 전량 매도: SELL 신호
  3) 내일 시가에 낼 대기 주문 생성 -> state/paper.json 저장
@@ -19,6 +20,7 @@ import datetime as dt
 import pandas as pd
 import FinanceDataReader as fdr
 from backtest_hyung2 import prep, UNITS
+from backtest_hyung3 import weekly_ok   # v3: 주봉 스토캐스틱 상승 중일 때만 신규 매수
 
 HERE = Path(__file__).parent
 STATE = HERE / "state" / "paper.json"
@@ -123,6 +125,7 @@ def main():
             if len(df) < 250:
                 raise ValueError(f"일봉 {len(df)}개(250개 미만)")
             f = prep(df)
+            f["WOK"] = weekly_ok(f)
         except Exception as e:
             rows.append({"코드": code, "종목": name, "메모": f"데이터 오류 {e}"})
             continue
@@ -148,6 +151,8 @@ def main():
                 sig = "매수신호(시장필터 OFF)"
             elif not last["TREND"]:
                 sig = "매수신호(종목필터 탈락)"
+            elif not last["WOK"]:
+                sig = "매수신호(주봉 하락 중)"
             else:
                 sig = "신규매수"
         rows.append({"코드": code, "종목": name, "종가": int(last["Close"]), "%K": round(last["K"], 1),

diff --git a/README.md b/README.md
@@ -19,6 +19,7 @@
 | **물타기** | 보유 중 20 아래에서 두 선이 다시 벌어지면 추가 매수 (최대 3회) |
 | **매도** | 데드크로스가 예상되거나 발생하면 전량 — 80까지 안 가도 판다 (원금 지키기) |
 | **필터** | 하락장(KODEX200 < 200일선)이면 신규 매수 쉼 · 200일선 위 + 6개월 상승 종목만 |
+| **주봉 필터 (v3)** | 주봉 스토캐스틱이 올라가는 중(%K > %D)일 때만 일봉 매수 — 큰 흐름과 작은 흐름을 같이 본다 |
 
 ## 어떻게 돌아가나
 
@@ -42,6 +43,7 @@ flowchart LR
 - 유튜브 **"승률 99%"** RSI+MACD+스토캐스틱 5분봉 기법 → 실제 승률 31~38%, 수익팩터 0.50 (거래할수록 손실)
 - 지표를 섞어도(RSI·MACD) 좋아지지 않음 — RSI는 스토캐스틱과 거의 같은 신호
 - 스토캐스틱 규칙들은 **수익은 비슷(본전 근처)**, 차이는 **잃는 폭**
+- **주봉 스토캐스틱 필터(v3)** 를 더하자 수익팩터 1.11 → **1.23**, 거래당 +0.34% → **+0.68%**, 최대낙폭 -2.3% → **-1.0%**
 
 ### 2026년 리플레이 — 모의 계좌 vs 시장
 ![리플레이](docs/img/replay_equity.png)
@@ -53,8 +55,9 @@ OpenDART 2021~2026 상장사 CB 공시 2,002건을 추적 — 공시 후 120일 
 
 ## 솔직한 평가
 
-- ✅ **크게 안 잃는다** — 최대낙폭 -2% (그냥 보유 -45%)
-- ⚠ **수익도 작다** — 연 +0.1%. 자금 대부분이 쉬고, 상승 추세에서 일찍 판다 (위 GS 예시: +20% 매도 후 +60% 더 오름)
+- ✅ **크게 안 잃는다** — 최대낙폭 -1% (그냥 보유 -45%)
+- ✅ **주봉+일봉 스토캐스틱** 조합으로 거래당 수익이 두 배 (2026 리플레이 -1.1% → +2.1%)
+- ⚠ **수익은 아직 작다** — 기회(거래 수)가 적다. 자금 대부분이 쉬고, 상승 추세에서 일찍 판다 (위 GS 예시: +20% 매도 후 +60% 더 오름)
 - ⚠ **손절이 없다** — 급락장에서 한 종목 -30%도 나옴
 - 👉 수익은 결국 **종목 고르는 눈**에서 — 시스템은 타이밍·기록·감시 담당
 
@@ -67,7 +70,7 @@ OpenDART 2021~2026 상장사 CB 공시 2,002건을 추적 — 공시 후 120일 
 | `dashboard.py` | 대시보드 HTML |
 | `replay.py` | 과거 날짜 리플레이 검증 (미래 데이터 차단) |
 | `kiwoom_client.py` | 키움 REST API (기본 모의 서버, 실전 주문 차단) |
-| `backtest*.py` | 백테스트 (일봉 10년 · 5분봉 60일) |
+| `backtest*.py` | 백테스트 (일봉 10년 · 5분봉 60일 · v3 개선안 비교 `backtest_hyung3.py`) |
 | `cb_event_study.py` | 0% 전환사채 사건 연구 (OpenDART) |
 | `make_figures.py` | 이 README의 그림 |
 | [`프로젝트_설명.md`](프로젝트_설명.md) | 자세한 설명 (규칙 대조표, 판단 기준, 다음 단계) |

diff --git a/프로젝트_설명.md b/프로젝트_설명.md
@@ -45,6 +45,7 @@
 | 손절 | 없음 | 없음 |
 | 종목 | 공부해서 오를 것 같은 회사 | 추세 좋은 종목으로 대신 (뉴스·재무 판단은 기계가 못 함) |
 | 시장 | 하락장·비주목 산업은 안 함 | KODEX200이 200일선 아래면 신규 매수 중지 |
+| 큰 흐름 (v3 추가) | — | 주봉 스토캐스틱이 상승 중(%K > %D)일 때만 일봉 매수 |
 
 - 신호는 **종가**로 보고, **다음 날 시가**에 체결한다고 가정
 - 자금: 1,000만 원, 최대 10종목 (종목당 100만 원, 1회 매수 약 33만 원)
@@ -58,7 +59,8 @@
 | "승률 99%" 5분봉 기법 | 실제 승률 31~38%, 거래할수록 손실 |
 | **형님 기법 v2 + 시장·종목 필터** (일봉 10년) | **연 +0.1%, 최대낙폭 -2.3%, 거래당 +0.34%, 수익팩터 1.11** — 잃지는 않지만 수익도 작음 |
 | 0% 전환사채 발행 종목 (2021~2026, 2,002건) | 공시 후 120일 시장 대비 중앙값 -12%, 70%가 시장보다 부진 → **매수 후보가 아니라 제외 대상** |
-| 2026년 리플레이 (상위 50종목) | 청산 82건, 승률 40%, -1.1% (같은 기간 KODEX200 +34%) |
+| 2026년 리플레이 (상위 50종목) | v2: 청산 82건, -1.1% → **v3(주봉 필터): 청산 30건, 거래당 +1.8%, +2.1%** (같은 기간 KODEX200 +34%) |
+| 스토캐스틱 개선 3종 (`backtest_hyung3.py`) | 주봉 필터: 수익팩터 1.11→1.23, 낙폭 -2.3→-1.0% **(채택)** · 매도 늦추기: 효과 없음 · 매수 금액 키우기: 수익·낙폭 비례 증가 |
 
 **해석**: 이 규칙의 강점은 "크게 안 잃는 것". 수익은 결국 **종목 고르는 눈**(형님의 공부)에서 나온다. 그래서 시스템은 타이밍·기록·감시를 맡고, 종목은 사람이 고르는 구조가 맞다 → `watchlist.csv`에 직접 종목을 넣으면 스크리너 대신 그걸 쓴다.
 
